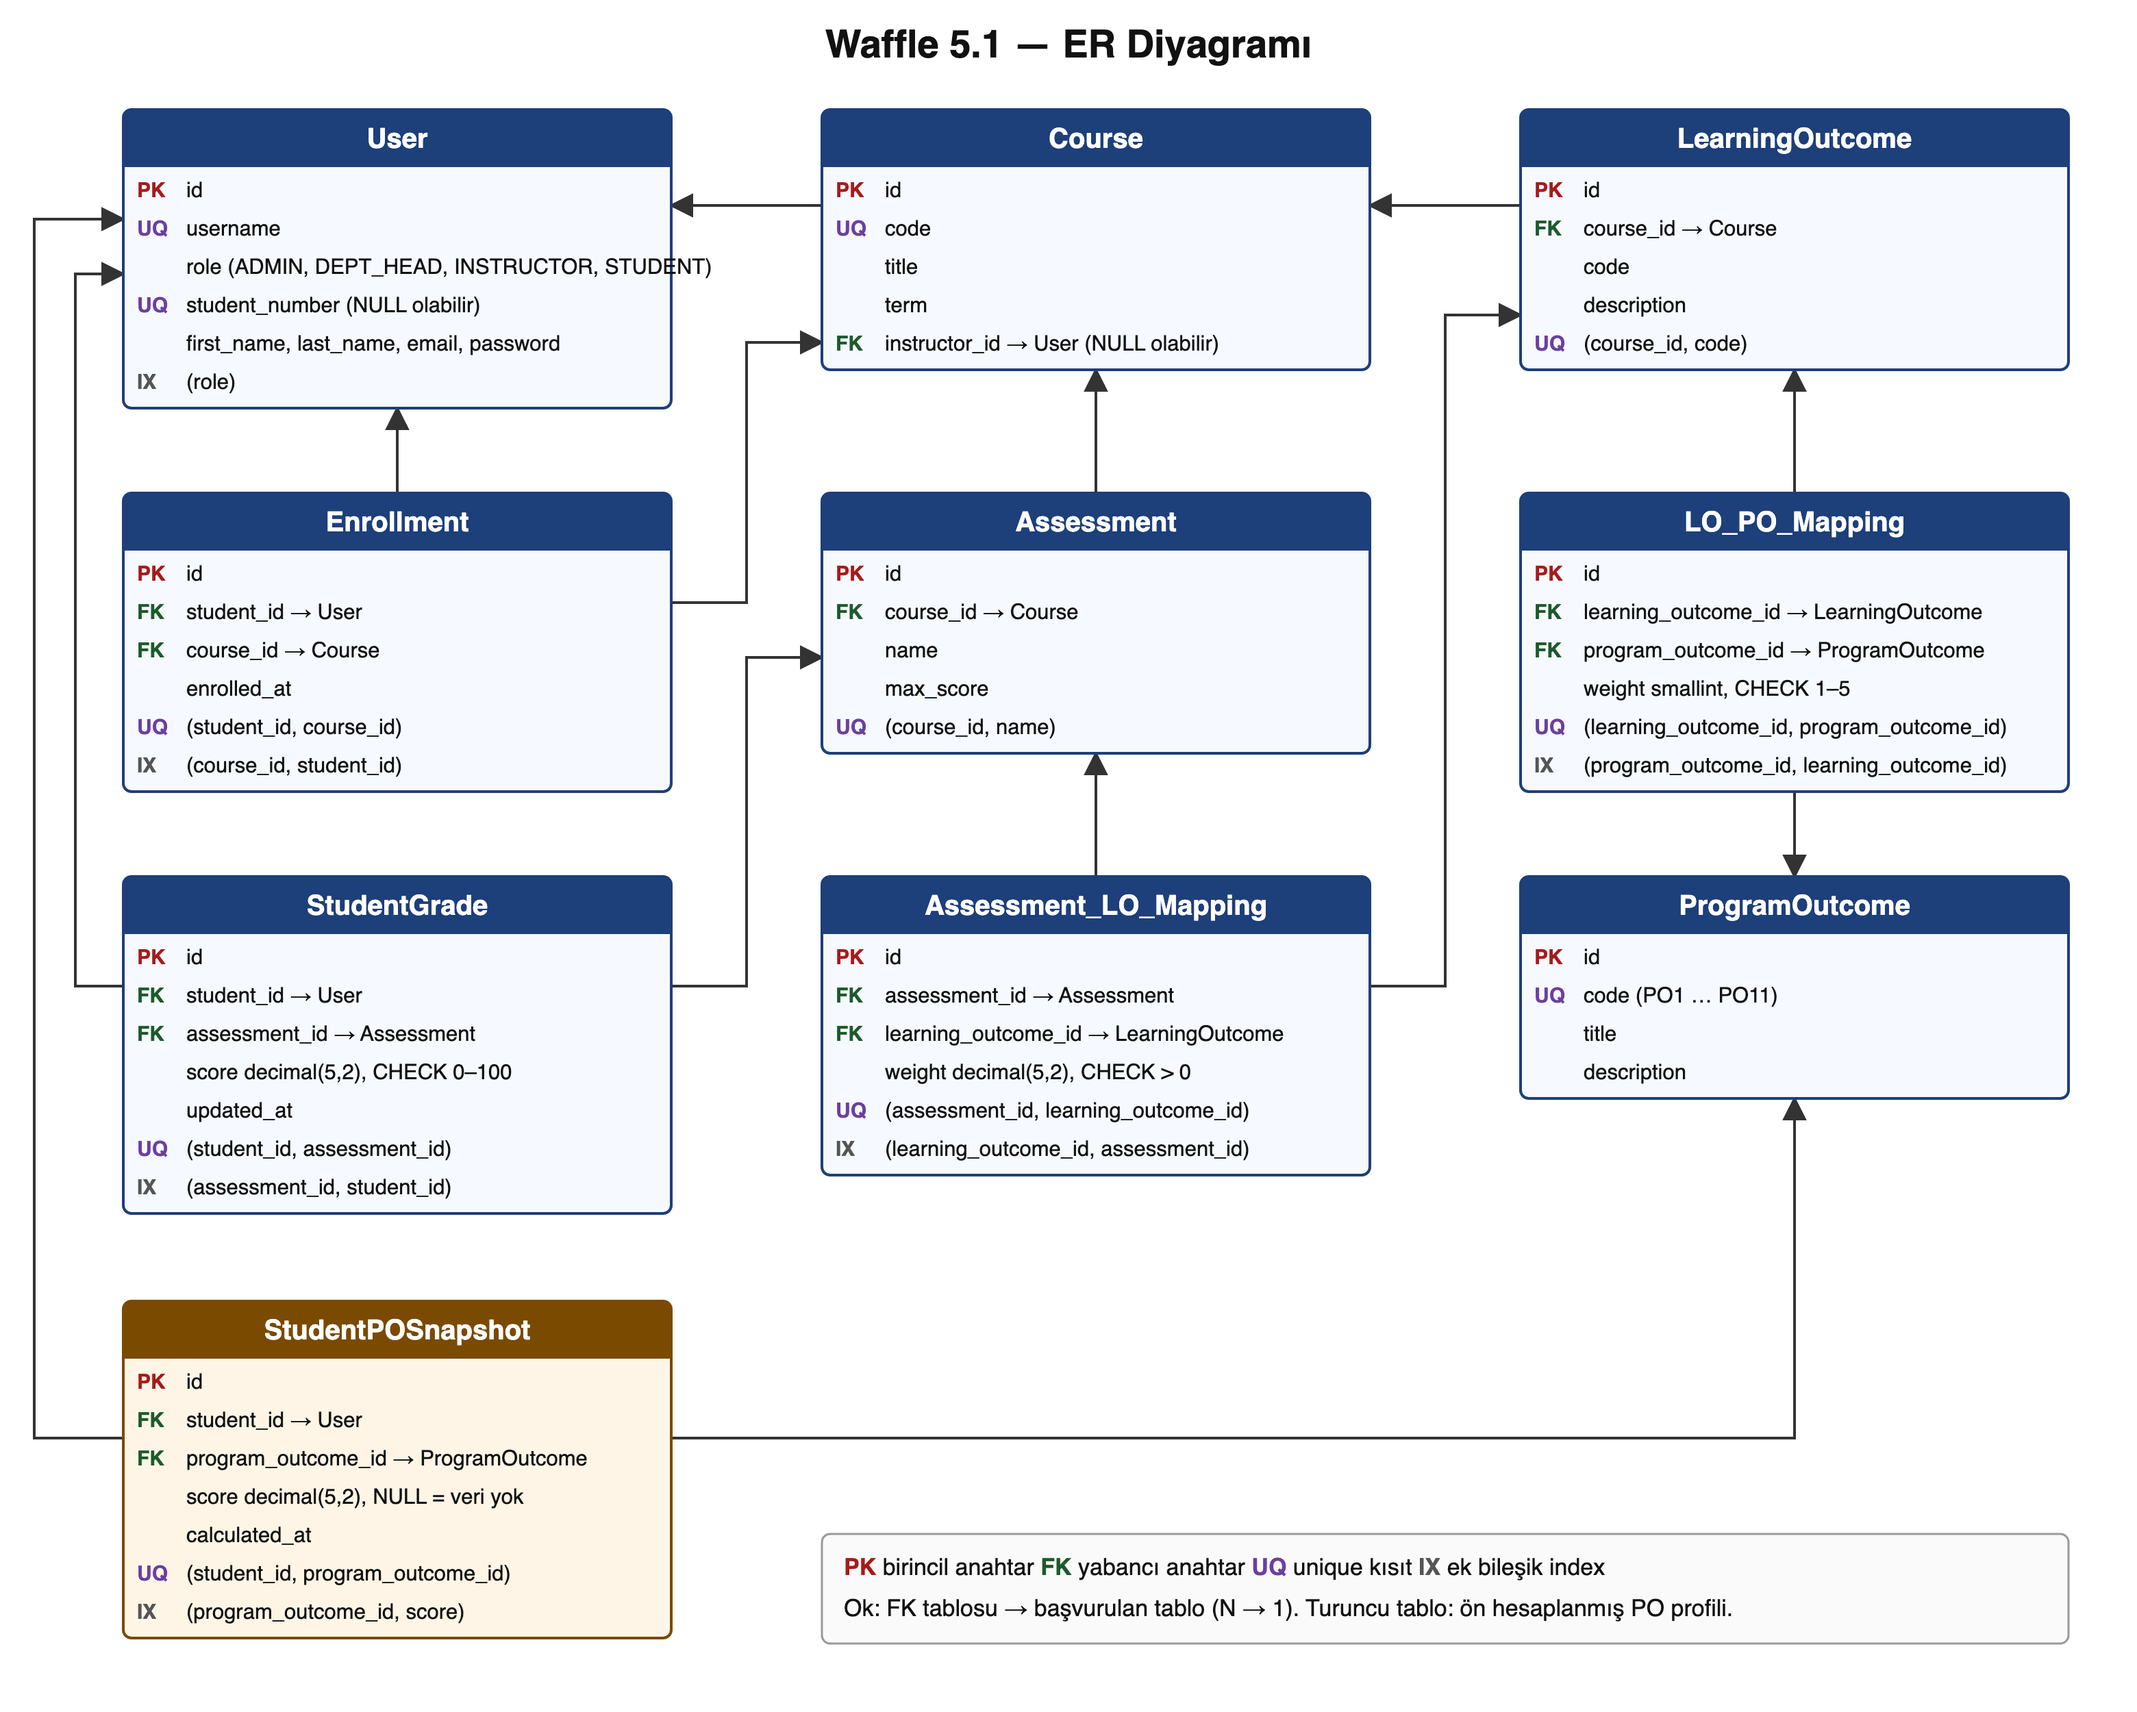
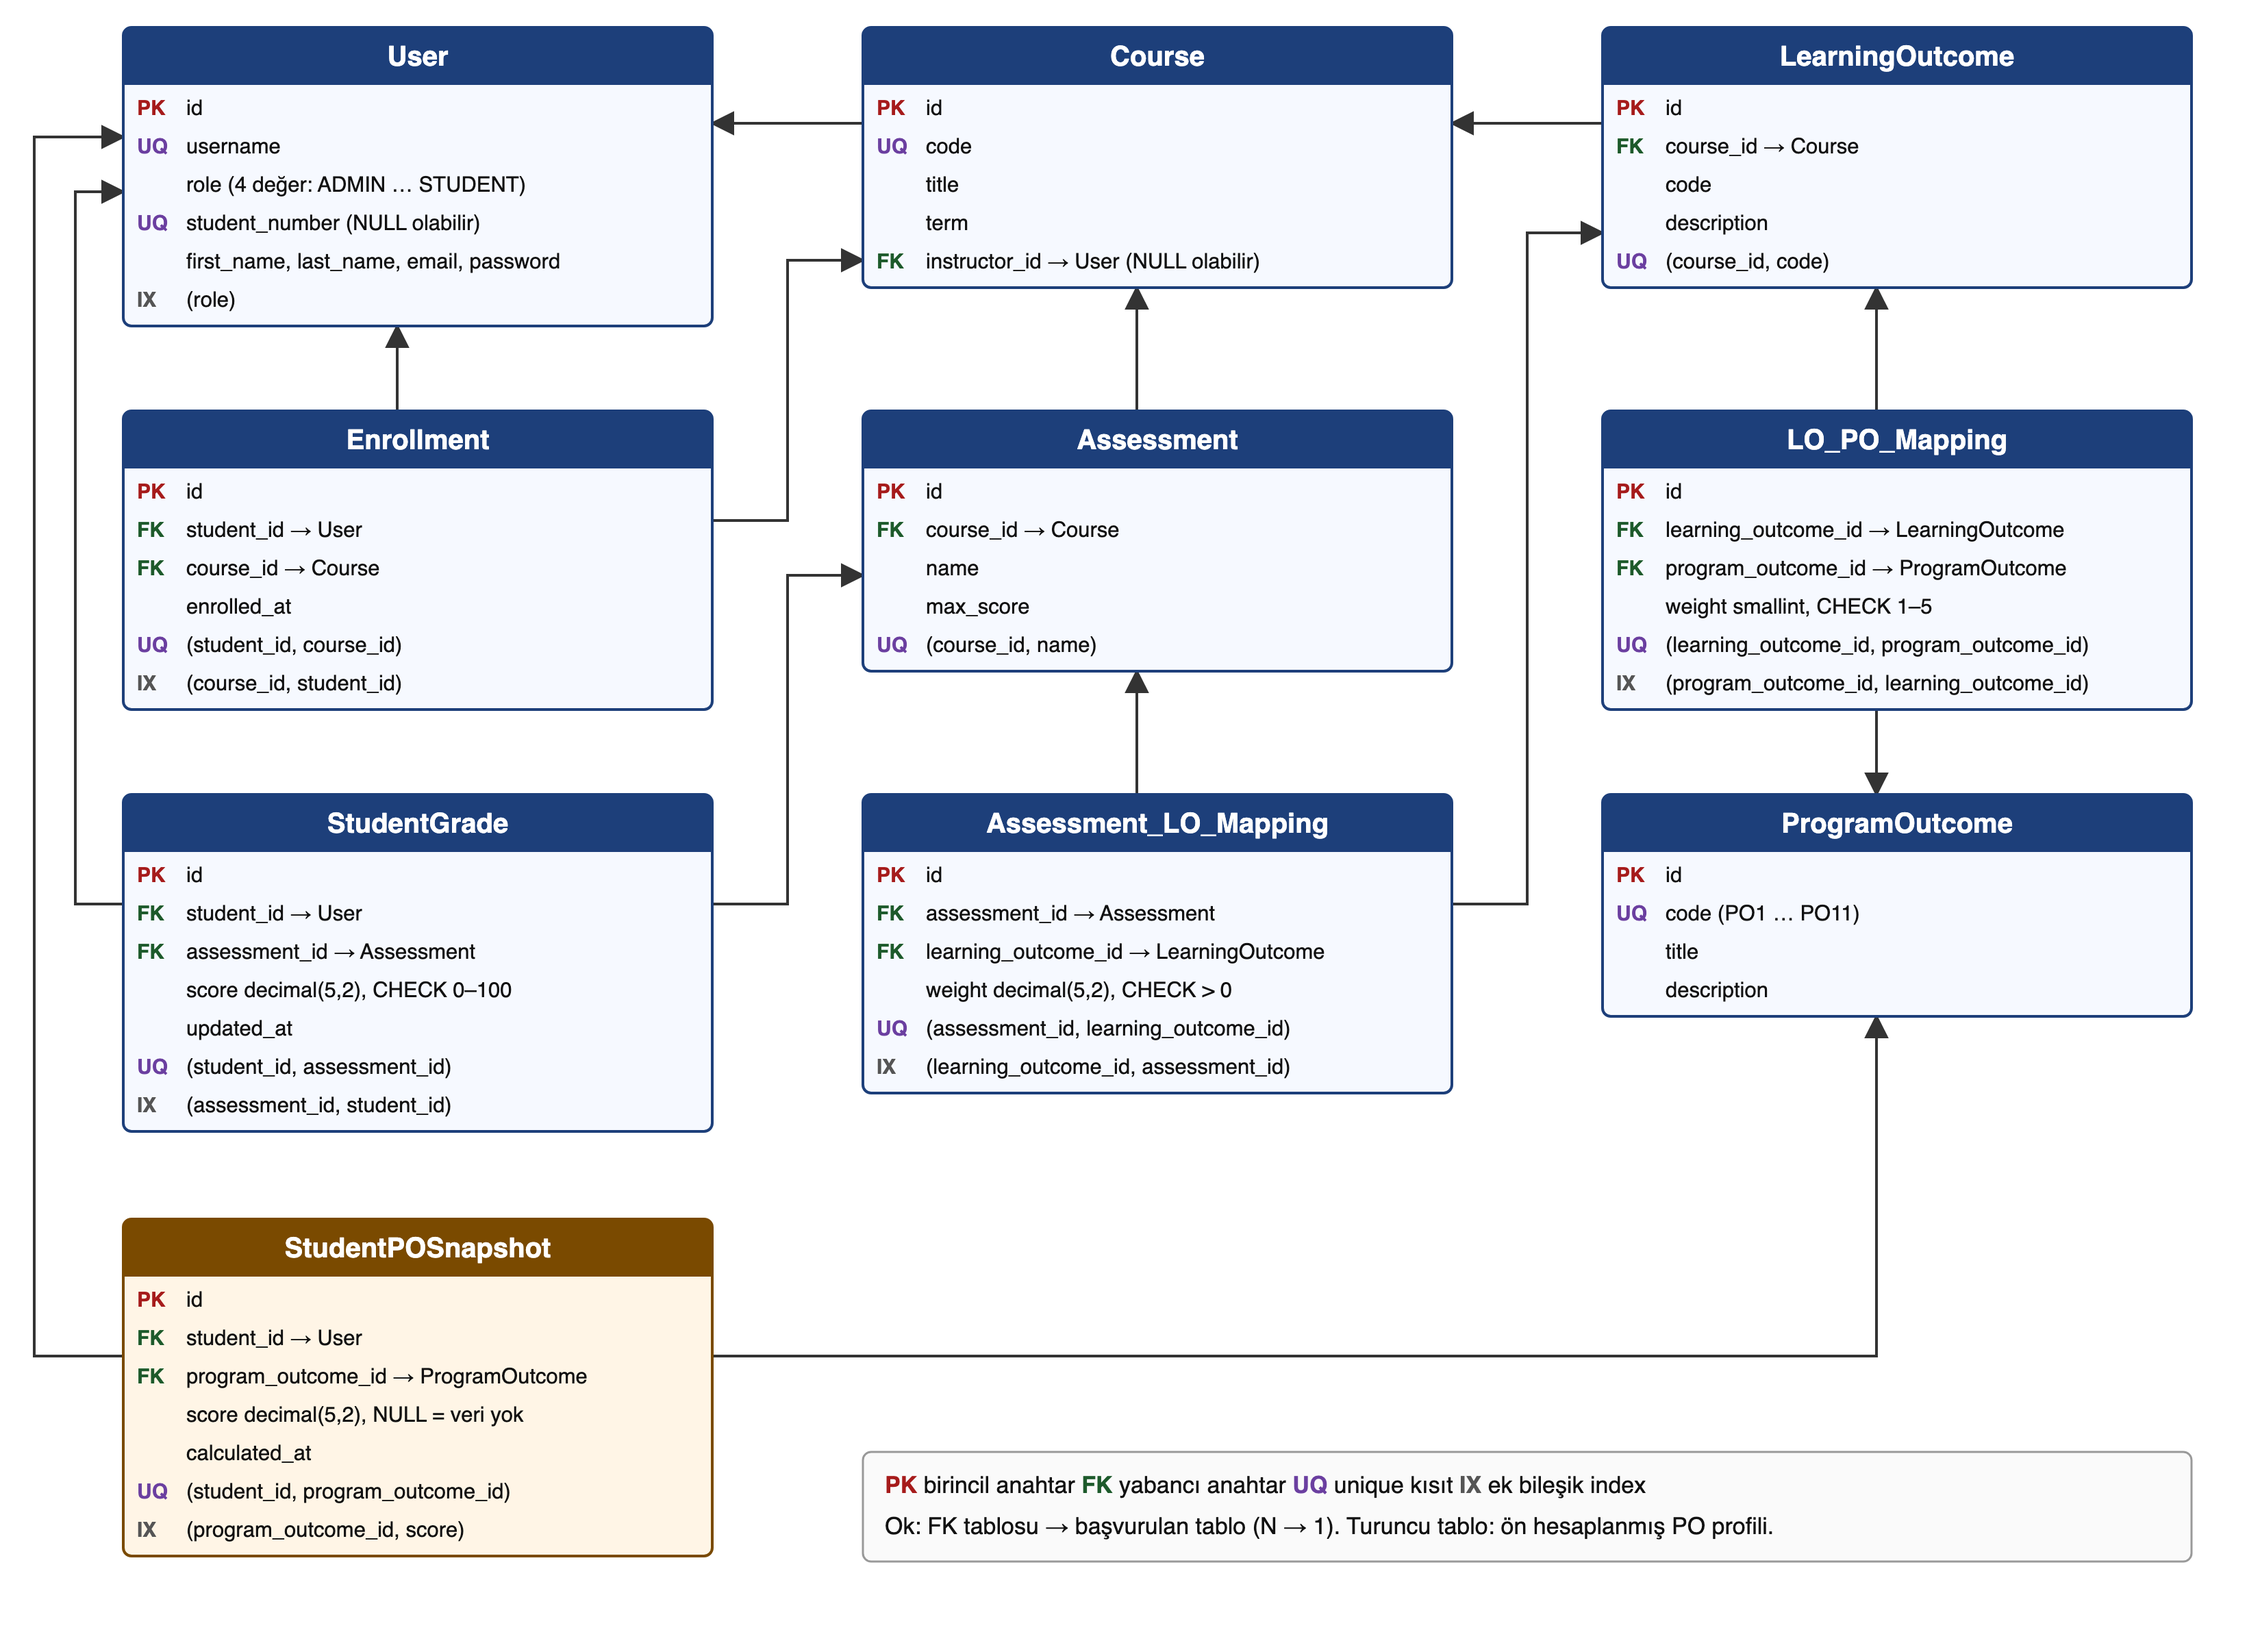
docs: widen ER diagram boxes for print readability

diff --git a/docs/diagrams/_gen_er.py b/docs/diagrams/_gen_er.py
@@ -1,10 +1,10 @@
 """ER diyagramını (er.svg) üretir:  python docs/diagrams/_gen_er.py"""
 from pathlib import Path
 
-W, RH, HH = 400, 28, 42
-C1, C2, C3 = 90, 600, 1110
+W, RH, HH = 430, 28, 42
+C1, C2, C3 = 90, 630, 1170
 T = {
-    "User": (C1, 80, ["PK  id", "UQ  username", "    role  (ADMIN, DEPT_HEAD, INSTRUCTOR, STUDENT)", "UQ  student_number  (NULL olabilir)", "    first_name, last_name, email, password", "IX  (role)"]),
+    "User": (C1, 80, ["PK  id", "UQ  username", "    role  (4 değer: ADMIN … STUDENT)", "UQ  student_number  (NULL olabilir)", "    first_name, last_name, email, password", "IX  (role)"]),
     "Course": (C2, 80, ["PK  id", "UQ  code", "    title", "    term", "FK  instructor_id → User  (NULL olabilir)"]),
     "LearningOutcome": (C3, 80, ["PK  id", "FK  course_id → Course", "    code", "    description", "UQ  (course_id, code)"]),
     "Enrollment": (C1, 360, ["PK  id", "FK  student_id → User", "FK  course_id → Course", "    enrolled_at", "UQ  (student_id, course_id)", "IX  (course_id, student_id)"]),
@@ -30,22 +30,21 @@ E = [
     [(C2, 150), (C1 + W, 150)],
     [(C3, 150), (C2 + W, 150)],
     [(C1 + 200, 360), (C1 + 200, bottom("User"))],
-    [(C1 + W, 440), (545, 440), (545, 250), (C2, 250)],
+    [(C1 + W, 440), (575, 440), (575, 250), (C2, 250)],
     [(C2 + 200, 360), (C2 + 200, bottom("Course"))],
     [(C3 + 200, 360), (C3 + 200, bottom("LearningOutcome"))],
     [(C3 + 200, bottom("LO_PO_Mapping")), (C3 + 200, 640)],
     [(C2 + 200, 640), (C2 + 200, bottom("Assessment"))],
-    [(C2 + W, 720), (1055, 720), (1055, 230), (C3, 230)],
+    [(C2 + W, 720), (1115, 720), (1115, 230), (C3, 230)],
     [(C1, 720), (55, 720), (55, 200), (C1, 200)],
-    [(C1 + W, 720), (545, 720), (545, 480), (C2, 480)],
+    [(C1 + W, 720), (575, 720), (575, 480), (C2, 480)],
     [(C1, 1050), (25, 1050), (25, 160), (C1, 160)],
     [(C1 + W, 1050), (C3 + 200, 1050), (C3 + 200, bottom("ProgramOutcome"))],
 ]
 
-o = ['<svg xmlns="http://www.w3.org/2000/svg" viewBox="0 0 1560 1250" font-family="Helvetica, Arial, sans-serif">',
+o = ['<svg xmlns="http://www.w3.org/2000/svg" viewBox="0 60 1650 1190" font-family="Helvetica, Arial, sans-serif">',
      '<defs><marker id="a" viewBox="0 0 10 10" refX="9" refY="5" markerWidth="9" markerHeight="9" orient="auto"><path d="M0 0L10 5L0 10z" fill="#333"/></marker></defs>',
-     '<rect width="1560" height="1250" fill="#fff"/>',
-     '<text x="780" y="42" text-anchor="middle" font-size="28" font-weight="bold" fill="#111">Waffle 5.1 — ER Diyagramı</text>']
+     '<rect width="1650" height="1250" fill="#fff"/>',]
 for pts in E:
     d = " ".join(f"{x},{y}" for x, y in pts)
     o.append(f'<polyline points="{d}" fill="none" stroke="#333" stroke-width="2" marker-end="url(#a)"/>')
@@ -62,8 +61,8 @@ for name, (x, y, rows) in T.items():
         if key:
             o.append(f'<text x="{x+10}" y="{ty}" font-size="15" font-weight="bold" fill="{color}">{key}</text>')
         o.append(f'<text x="{x+46}" y="{ty}" font-size="15.5" fill="#111">{rest}</text>')
-lx, ly = 600, 1120
-o.append(f'<rect x="{lx}" y="{ly}" width="910" height="80" rx="6" fill="#fafafa" stroke="#999" stroke-width="1.5"/>')
+lx, ly = 630, 1120
+o.append(f'<rect x="{lx}" y="{ly}" width="970" height="80" rx="6" fill="#fafafa" stroke="#999" stroke-width="1.5"/>')
 o.append(f'<text x="{lx+16}" y="{ly+30}" font-size="17" fill="#111"><tspan font-weight="bold" fill="#a61b1b">PK</tspan> birincil anahtar   <tspan font-weight="bold" fill="#1d5a2b">FK</tspan> yabancı anahtar   <tspan font-weight="bold" fill="#6b3fa0">UQ</tspan> unique kısıt   <tspan font-weight="bold" fill="#555">IX</tspan> ek bileşik index</text>')
 o.append(f'<text x="{lx+16}" y="{ly+60}" font-size="17" fill="#111">Ok: FK tablosu → başvurulan tablo (N → 1).  Turuncu tablo: ön hesaplanmış PO profili.</text>')
 o.append("</svg>")
